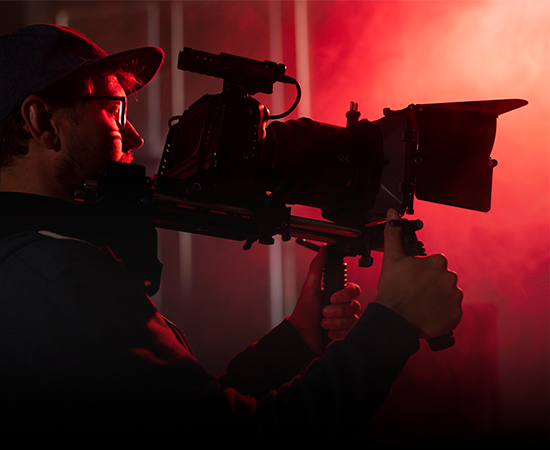
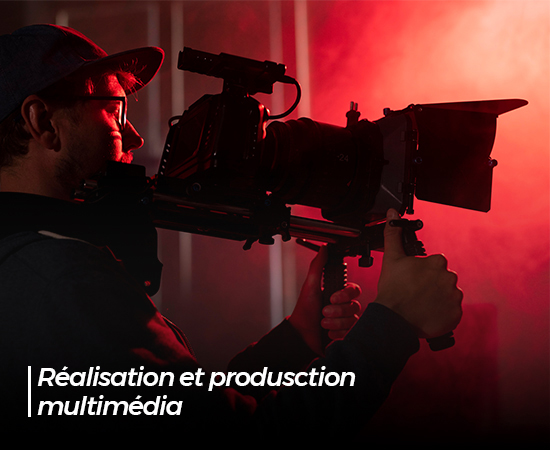
Nouvelle Updatee

Changed region(s): [[0.0309, 0.8089, 0.6491, 0.9333]]

diff --git a/Ultra/project.html b/Ultra/project.html
@@ -171,8 +171,8 @@
                             <img src="img/MultiMd.jpg" class="img-fluid w-100 rounded" alt="">
                             <div class="project-content">
                                 <a href="#" class="text-center">
-                                    <h4 class="text-secondary">Realisation</h4>
-                                    <p class="m-0 text-white">Et Production Multimedia</p>
+                                    <h4 class="text-secondary">Réalisation</h4>
+                                    <p class="m-0 text-white">Et Production Multimédia</p>
                                 </a>
                             </div>
                         </div>
@@ -184,7 +184,7 @@
                             <img src="img/CreationGraphique.jpg" class="img-fluid w-100 rounded" alt="">
                             <div class="project-content">
                                 <a href="#" class="text-center">
-                                    <h4 class="text-secondary">Creation Graphique</h4>
+                                    <h4 class="text-secondary">Création Graphique</h4>
                                     <p class="m-0 text-white">Production Image</p>
                                 </a>
                             </div>
@@ -194,7 +194,7 @@
                 <div class="col-md-6 col-lg-4 wow fadeIn" data-wow-delay=".7s">
                     <div class="project-item">
                         <div class="project-img">
-                            <img src="img/st6.jpg" class="img-fluid w-100 rounded " id="small-image" alt="">
+                            <img src="img/Reportagepub.jpg" class="img-fluid w-100 rounded " id="small-image" alt="">
                             <div class="project-content">
                                 <a href="#" class="text-center">
                                     <h4 class="text-secondary">Reportage</h4>
@@ -207,10 +207,10 @@
                 <div class="col-md-6 col-lg-4 wow fadeIn" data-wow-delay=".3s">
                     <div class="project-item">
                         <div class="project-img">
-                            <img src="img/project-4.jpg" class="img-fluid w-100 rounded" alt="">
+                            <img src="img/RédactionPub.jpg" class="img-fluid w-100 rounded" alt="">
                             <div class="project-content">
                                 <a href="#" class="text-center">
-                                    <h4 class="text-secondary">Redaction Publicitaire et Institutionnelle</h4>
+                                    <h4 class="text-secondary">Rédaction Publicitaire et Institutionnelle</h4>
                                     <p class="m-0 text-white">Divers</p>
                                 </a>
                             </div>
@@ -220,11 +220,11 @@
                 <div class="col-md-6 col-lg-4 wow fadeIn" data-wow-delay=".5s">
                     <div class="project-item">
                         <div class="project-img">
-                            <img src="img/project-5.jpg" class="img-fluid w-100 rounded" alt="">
+                            <img src="img/Cinématographie.jpg" class="img-fluid w-100 rounded" alt="">
                             <div class="project-content">
                                 <a href="#" class="text-center">
-                                    <h4 class="text-secondary">Cinematographie</h4>
-                                    <p class="m-0 text-white">Films Institutionenels</p>
+                                    <h4 class="text-secondary">Cinématographie</h4>
+                                    <p class="m-0 text-white">Films Institutionnels</p>
                                 </a>
                             </div>
                         </div>
@@ -233,7 +233,7 @@
                 <div class="col-md-6 col-lg-4 wow fadeIn" data-wow-delay=".7s">
                     <div class="project-item">
                         <div class="project-img">
-                            <img src="img/project-6.jpg" class="img-fluid w-100 rounded" alt="">
+                            <img src="img/ProductionAudio.jpg" class="img-fluid w-100 rounded" alt="">
                             <div class="project-content">
                                 <a href="#" class="text-center">
                                     <h4 class="text-secondary">Production Audio</h4>
@@ -243,6 +243,61 @@
                         </div>
                     </div>
                 </div>
+
+
+
+
+
+
+
+
+                <div class="col-md-6 col-lg-4 wow fadeIn" data-wow-delay=".7s">
+                    <div class="project-item">
+                        <div class="project-img">
+                            <img src="img/Création_et_Hébergement_de_site.jpg" class="img-fluid w-100 rounded" alt="">
+                            <div class="project-content">
+                                <a href="#" class="text-center">
+                                    <h4 class="text-secondary">Création et Hébergement de site</h4>
+                                    <p class="m-0 text-white">Web</p>
+                                </a>
+                            </div>
+                        </div>
+                    </div>
+                </div>
+
+                <div class="col-md-6 col-lg-4 wow fadeIn" data-wow-delay=".7s">
+                    <div class="project-item">
+                        <div class="project-img">
+                            <img src="img/Production_d'image.jpg" class="img-fluid w-100 rounded" alt="">
+                            <div class="project-content">
+                                <a href="#" class="text-center">
+                                    <h4 class="text-secondary">Production d'image</h4>
+                                    <p class="m-0 text-white"></p>
+                                </a>
+                            </div>
+                        </div>
+                    </div>
+                </div>
+
+
+
+                <div class="col-md-6 col-lg-4 wow fadeIn" data-wow-delay=".7s">
+                    <div class="project-item">
+                        <div class="project-img">
+                            <img src="img/Conseil_et_assistance_en_communication_stratégique.jpg" class="img-fluid w-100 rounded" alt="">
+                            <div class="project-content">
+                                <a href="#" class="text-center">
+                                    <h4 class="text-secondary">Conseil et assistance en communication stratégique</h4>
+                                    <p class="m-0 text-white"></p>
+                                </a>
+                            </div>
+                        </div>
+                    </div>
+                </div>
+
+                
+
+
             </div>
         </div>
     </div>

diff --git a/Ultra/about.html b/Ultra/about.html
@@ -164,9 +164,9 @@
                 <div class="row g-5">
                     <div class="col-lg-5 col-md-6 col-sm-12 wow fadeIn" data-wow-delay=".3s">
                         <div class="h-100 position-relative">
-                            <img src="img/st1.jpg" class="img-fluid w-75 rounded" alt="" style="margin-bottom: 25%;">
+                            <img src="img/Propos2.jpg" class="img-fluid w-75 rounded" alt="" style="margin-bottom: 25%;">
                             <div class="position-absolute w-75" style="top: 25%; left: 25%;">
-                                <img src="img/st2.jpg" class="img-fluid w-100 rounded" alt="">
+                                <img src="img/Propos1.jpg" class="img-fluid w-100 rounded" alt="">
                             </div>
                         </div>
                     </div>

diff --git a/Ultra/index.html b/Ultra/index.html
@@ -172,9 +172,9 @@
                 <div class="row g-5">
                     <div class="col-lg-5 col-md-6 col-sm-12 wow fadeIn" data-wow-delay=".3s">
                         <div class="h-100 position-relative">
-                            <img src="img/st1.jpg" class="img-fluid w-75 rounded" alt="" style="margin-bottom: 25%;">
+                            <img src="img/Propos2.jpg" class="img-fluid w-75 rounded" alt="" style="margin-bottom: 25%;">
                             <div class="position-absolute w-75" style="top: 25%; left: 25%;">
-                                <img src="img/st2.jpg" class="img-fluid w-100 rounded" alt="">
+                                <img src="img/Propos1.jpg" class="img-fluid w-100 rounded" alt="">
                             </div>
                         </div>
                     </div>
